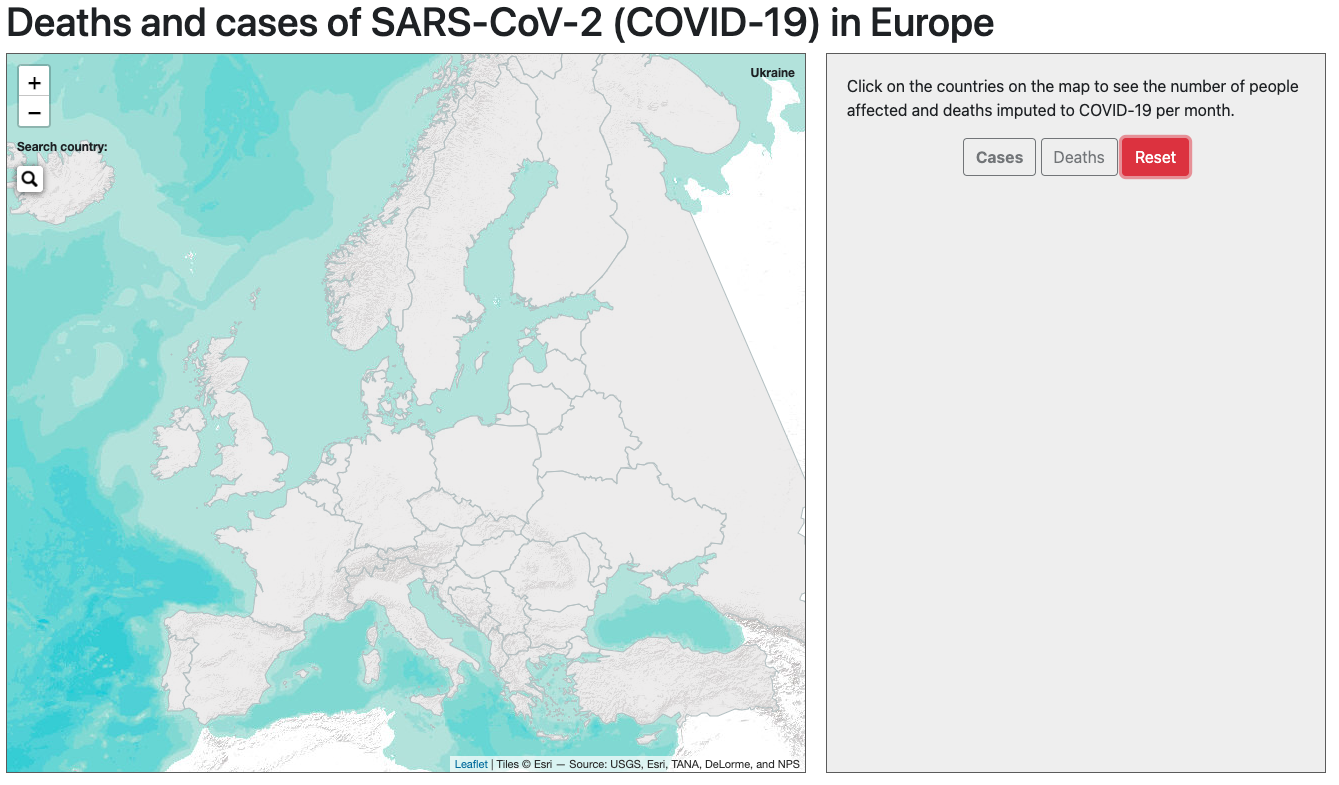
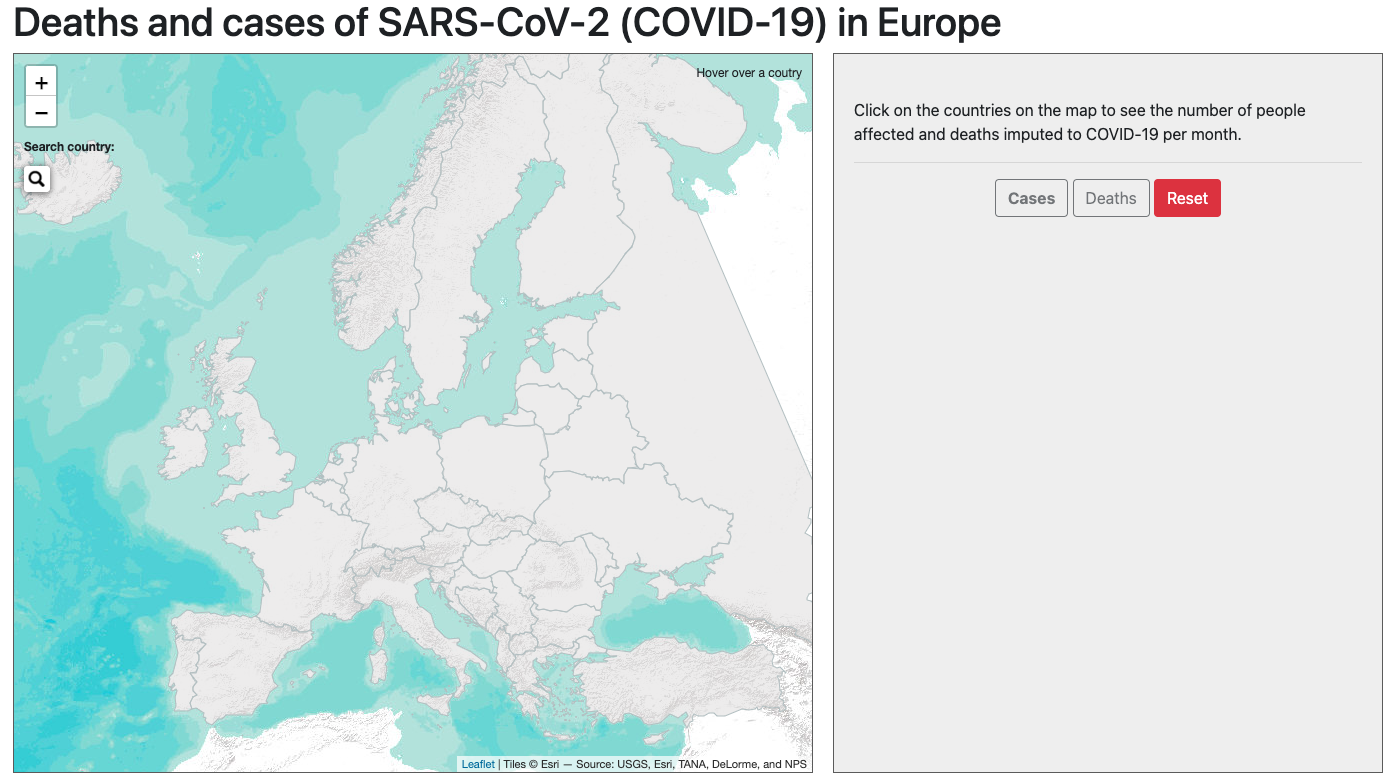
Last details

diff --git a/index.js b/index.js
@@ -62,18 +62,19 @@ function highlightFeature(e) {
 }
 
 var lastOpen;
-// function resetHighlight(e) {
-//   var poly = e.target;
-//   if (poly._popup.isOpen()) {
-//     console.log("Popup is open.")
-//     lastOpen = e.target;
-//   } else {
-//     poly.setStyle(standardStyle);;
-//   }
-//   if (map.hasLayer(dataLayerGroup)) {
-//     dataLayerGroup.bringToFront();
-//   }
-// }
+
+function resetHighlight(e) {
+  var poly = e.target;
+  if (poly._popup.isOpen()) {
+    console.log("Popup is open.")
+    lastOpen = e.target;
+  } else {
+    poly.setStyle(standardStyle);;
+  }
+  if (map.hasLayer(dataLayerGroup)) {
+    dataLayerGroup.bringToFront();
+  }
+}
 
 // Onclick function
 function select(e) {
@@ -420,7 +421,7 @@ function onEachFeature(feature, layer) {
   // Add events functions
   layer.on({
       mouseover: highlightFeature,
-//      mouseout: resetHighlight,
+      mouseout: resetHighlight,
       click: select
   });
 }

diff --git a/index.html b/index.html
@@ -28,15 +28,17 @@
       <!-- sidebar, div with buttons and d3 graph -->
       <div class="sidebar">
         <div class="infobox">
+          <br>
           <p>Click on the countries on the map to see the number of people affected and deaths imputed to COVID-19 per month.</p>
 
+          <hr>
           <!-- div for the three buttons-->
           <div class="btn-div">
             <button type="button" class="btn btn-outline-dark" id="cases" onclick ="set_choice('cases')" disabled>Cases</button>
             <button type="button" class="btn btn-outline-dark" id="deaths" onclick ="set_choice('deaths')" disabled>Deaths</button>
             <button type="button" class="btn btn-danger" onclick="reset()">Reset</button>
           </div>
-
+          <br>
           <div class="graph" id="d3-container"></div>
           
         </div>

diff --git a/README.md b/README.md
@@ -29,6 +29,7 @@ Here are the different ways users can interact with the map:
 	- either by clicking on it
 	- or by search for it with the serach box on the left
 - switch between cases and deaths to see the corresponding barplot
+- hover on the bars to highlight a particular month
 - Reset everything with a button
 
 ![](img/project_2.png)
